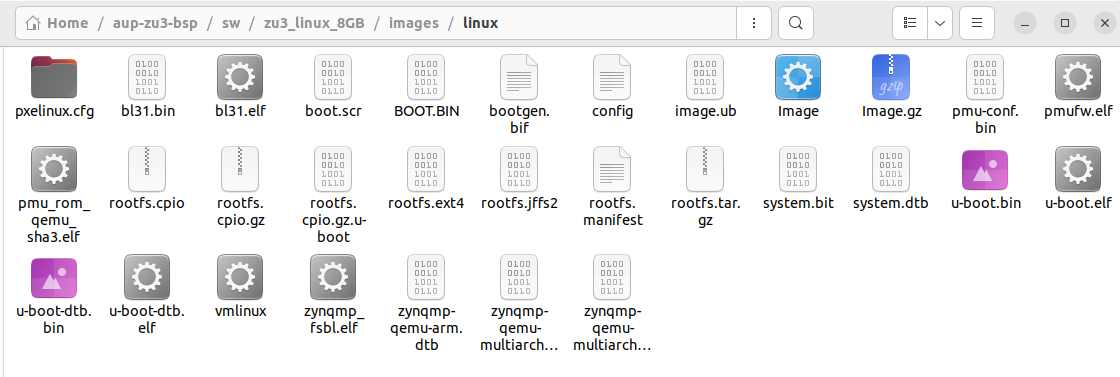
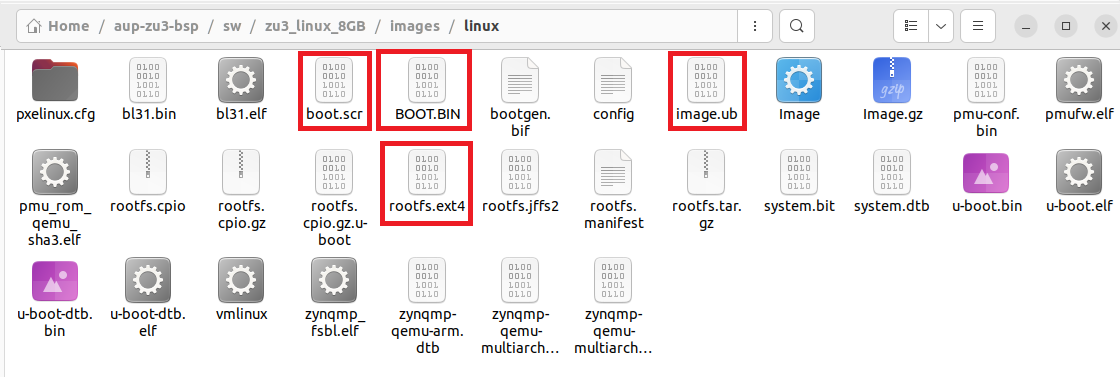
Update

diff --git a/1_Building_Petalinux/README.md b/1_Building_Petalinux/README.md
@@ -9,14 +9,18 @@ Download the latest PetaLinux tools (version **2024.1** ) from [AMD’s official
 
 ---
 
-## Requirements
-
-- **PetaLinux 2024.1 or 2024.2**
-- Linux host system (e.g. Ubuntu 20.04 or later)
+## AUP-ZU3-BSP Download
+Download the BSP tools of AUP-ZU3 from [RealDigital github website](https://github.com/RealDigitalOrg/aup-zu3-bsp)
 
 ---
 
-## ⚙ Build Steps
+## Requirements
+- **PetaLinux 2024.1**
+- Linux host system (e.g. Ubuntu 22.04.3)
+
+---
+
+## Build Steps
 
 ### 1. Create PetaLinux Project
 
@@ -54,10 +58,6 @@ NOTE: Tasks Summary: All succeeded.
 [INFO] Successfully built project
 ```
 
-> ⚠ Possible warnings:
-> - `XSCT has been deprecated` — safe to ignore.
-> - `Failed to copy built images to tftp dir` — non-critical unless using TFTP boot.
-
 ---
 
 ### 3. Generate BOOT.BIN
@@ -84,40 +84,24 @@ petalinux-package boot --u-boot --fpga --force
 The generated files will be located in:
 
 ```
-/home/aupzu3/aup-zu3-bsp/sw/zu3_linux/images/linux/
+aup-zu3-bsp/sw/zu3_linux/images/linux/
 ```
 
 ---
 
-## 📁 Output Files
+##  Output Files
+
+Only the following four files are required for booting the AUP-ZU3 board:
 
 | File | Description |
 |------|--------------|
 | `BOOT.BIN` | Boot image containing FSBL, PMUFW, bitstream, ATF, DTB, and U-Boot |
+| `boot.scr` | U-Boot boot script |
 | `image.ub` | Combined Linux kernel and device tree |
-| `rootfs.tar.gz` | Minimal root filesystem |
-| `system.dtb` | Device tree blob |
+| `rootfs.ext4` | Root filesystem image |
+
+Below is an example of output files :
+![PetaLinux Build Overview](./image/1.png)
 
 ---
 
-## 🖼 Directory Overview
-
-Below is an example build flow illustration (optional):
-
-![PetaLinux Build Overview](./image/build_flow.png)
-
----
-
-## ✅ Summary
-
-After completing these steps, you will have successfully built the **PetaLinux image** and **BOOT.BIN** for the AUP-ZU3 board.  
-These files can now be used for SD card boot or JTAG-based Linux boot testing on the ELEC3607 development setup.
-
----
-
-**Author:** ELEC3607 Teaching Team  
-**Board:** AUP-ZU3 (Zynq UltraScale+ MPSoC)  
-**Tool Version:** Vitis/Vivado/PetaLinux 2024.1–2024.2
-
-
-![AUP-ZU3 Board Setup](./image/1.png)
